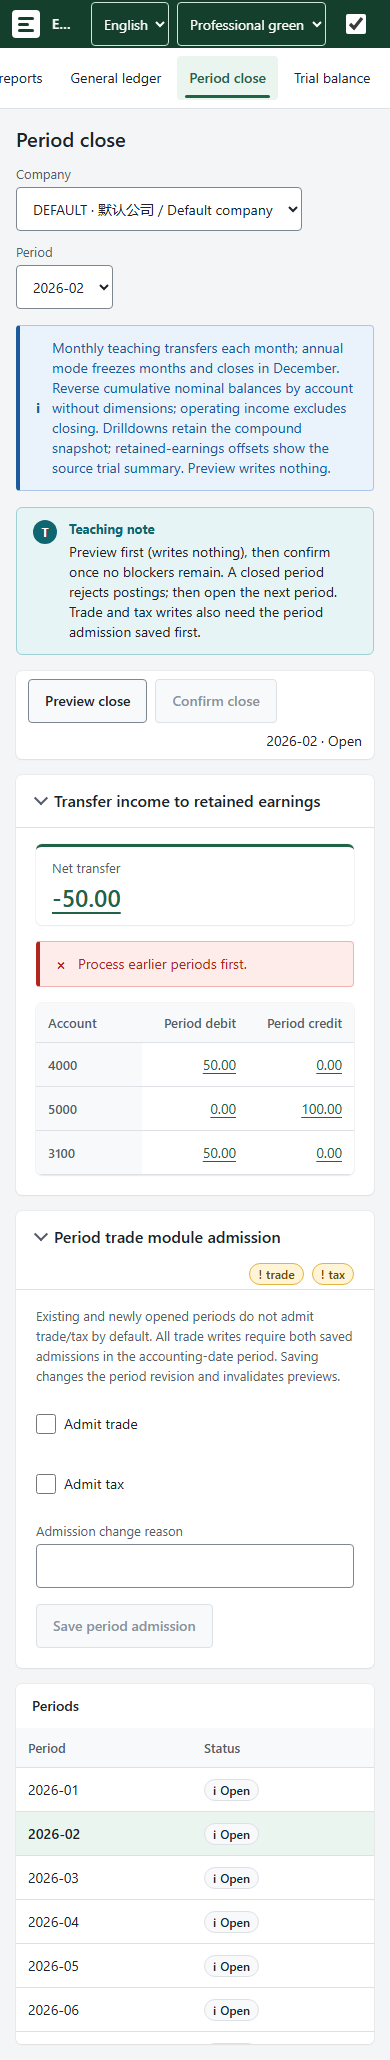
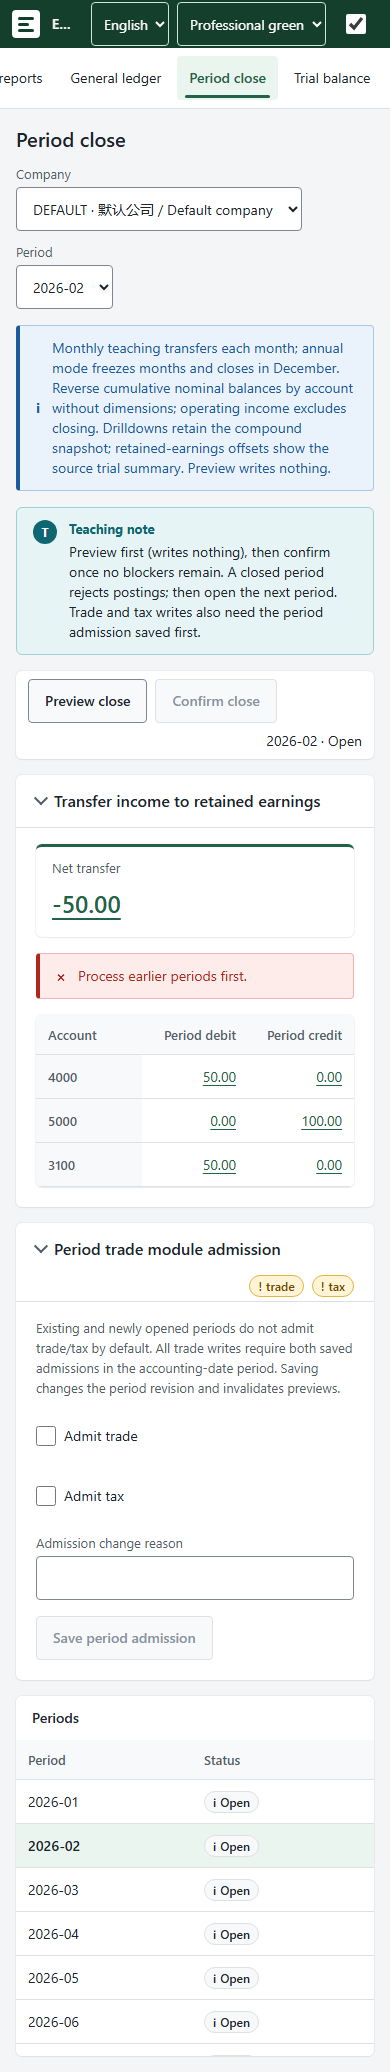
UI-07b: address review — open-next secondary, named fieldsets, 44px KPI link
Open next period is not a reopen/undo, so it uses btn-secondary. Both fieldsets get aria-label (close.title / trpt.admission). The net KPI drilldown link is >=44px; capture checks a[href] outside tables and reports table-inline links as unchecked. Route chunk trimmed to stay within PG-05.

diff --git a/packages/web/src/PeriodClose.tsx b/packages/web/src/PeriodClose.tsx
@@ -161,7 +161,7 @@ export function PeriodClose({ preferences }: { preferences: Preferences }) {
         {t("close.teaching")}
       </TeachingTip>
       {selectedCompany && selectedPeriod && (
-        <fieldset disabled={admissionLocked}>
+        <fieldset disabled={admissionLocked} aria-label={t("close.title")}>
           <CloseWizard
             key={`${selectedCompany.code}:${selectedPeriod.month}`}
             company={selectedCompany}
@@ -197,7 +197,7 @@ export function PeriodClose({ preferences }: { preferences: Preferences }) {
         )}
       {months.length > 0 && (
         <div className="card">
-          <div className="grid-wrap close-periods">
+          <div className="grid-wrap">
             <table className="grid">
               <caption>{t("close.periods")}</caption>
               <thead>
@@ -211,10 +211,7 @@ export function PeriodClose({ preferences }: { preferences: Preferences }) {
               </thead>
               <tbody>
                 {months.map((item) => (
-                  <tr
-                    key={item.month}
-                    aria-current={item.month === selectedPeriod?.month || undefined}
-                  >
+                  <tr key={item.month} aria-current={item.month === selectedPeriod?.month}>
                     <td>{item.month}</td>
                     <td>
                       <Badge tone={tones[item.status]}>{t(`close.status.${item.status}`)}</Badge>
@@ -377,7 +374,7 @@ function CloseWizard({
   const closedView = result || latestPeriod.status !== "open";
   return (
     <>
-      <div className="close-command-bar">
+      <div className="bar">
         {latestPeriod.status !== "closed" && !result && (
           <button
             type="button"
@@ -412,7 +409,7 @@ function CloseWizard({
         {closedView && (
           <button
             type="button"
-            className="btn btn-danger"
+            className="btn btn-secondary"
             disabled={
               busy ||
               pending !== null ||

diff --git a/packages/web/test/period-close.test.tsx b/packages/web/test/period-close.test.tsx
@@ -249,6 +249,8 @@ it("shows period status badges, keeps derived numbers hidden until preview, and 
   expect(within(current).getByText("开放").closest(".badge")?.className).toBe("badge info");
   expect(within(list).getByText("冻结").closest(".badge")?.className).toBe("badge warning");
   expect(screen.getByText("trade", { selector: ".badge" }).className).toBe("badge warning");
+  expect(screen.getByRole("group", { name: "期末结账" })).toBeTruthy();
+  expect(screen.getByRole("group", { name: "期间贸易模块准入" })).toBeTruthy();
   expect(screen.queryByText("本次结转净额")).toBeNull();
   const previewButton = screen.getByRole("button", { name: "预览结账" });
   expect(previewButton.className).toBe("btn btn-secondary");
@@ -261,7 +263,7 @@ it("shows period status badges, keeps derived numbers hidden until preview, and 
   expect(screen.getByText("本次结转净额")).toBeTruthy();
   expect(screen.queryByRole("button", { name: "打开下一期间" })).toBeNull();
 });
-it("styles open-next as a danger action on a closed period without offering a new preview", async () => {
+it("keeps open-next a secondary action on a closed period without offering a new preview", async () => {
   window.history.replaceState(null, "", "/#/period-close?company=DEFAULT&month=2026-12");
   const company = {
     code: "DEFAULT",
@@ -289,7 +291,7 @@ it("styles open-next as a danger action on a closed period without offering a ne
   );
   render(<App />);
   const next = await screen.findByRole("button", { name: "打开下一期间" });
-  expect(next.className).toBe("btn btn-danger");
+  expect(next.className).toBe("btn btn-secondary");
   expect(next).toHaveProperty("disabled", false);
   expect(screen.getByText("冻结或关闭期间不可再过账。").closest(".message-bar")?.className).toBe(
     "message-bar info",

diff --git a/packages/web/src/pages/period-close.css b/packages/web/src/pages/period-close.css
@@ -30,7 +30,7 @@
   padding: 0;
   border: 0;
 }
-.period-close .close-command-bar {
+.period-close .bar {
   display: flex;
   flex-wrap: wrap;
   align-items: center;
@@ -40,7 +40,7 @@
   border-radius: var(--radius-md);
   box-shadow: var(--shadow-1);
 }
-.period-close .close-command-bar > span {
+.period-close .bar > span {
   display: inline-flex;
   align-items: center;
   gap: var(--space-2);
@@ -74,19 +74,26 @@
 .period-close > fieldset .card > .journal-scroll {
   max-height: 360px;
 }
-.period-close .close-periods {
+.period-close > .card .grid-wrap {
   max-height: 360px;
 }
-.period-close .close-periods caption {
+.period-close > .card .grid-wrap caption {
   padding: var(--space-3) var(--space-4);
   text-align: left;
   font-weight: var(--weight-semibold);
 }
-.period-close .close-periods tr[aria-current] td {
+.period-close > .card .grid-wrap tr[aria-current="true"] td {
   background: var(--color-primary-soft);
   font-weight: var(--weight-semibold);
 }
 .period-close > fieldset .journal-scroll :is(th, td):nth-child(n + 2) {
   text-align: right;
   font-variant-numeric: tabular-nums;
+}
+/* 净额 KPI 的下钻链接在窄屏也保持 ≥ 44px 的点击区 */
+.period-close .kpi .value a {
+  display: inline-flex;
+  align-items: center;
+  min-width: 44px;
+  min-height: 44px;
 }

diff --git a/packages/web/src/TradePeriodAdmission.tsx b/packages/web/src/TradePeriodAdmission.tsx
@@ -136,6 +136,7 @@ export function TradePeriodAdmission({
     >
       <fieldset
         className="admission"
+        aria-label={t("trpt.admission")}
         disabled={disabled || busy || loaded.failed || (period.status === "closed" && !pending)}
       >
         <p>{t("trpt.admissionNote")}</p>
